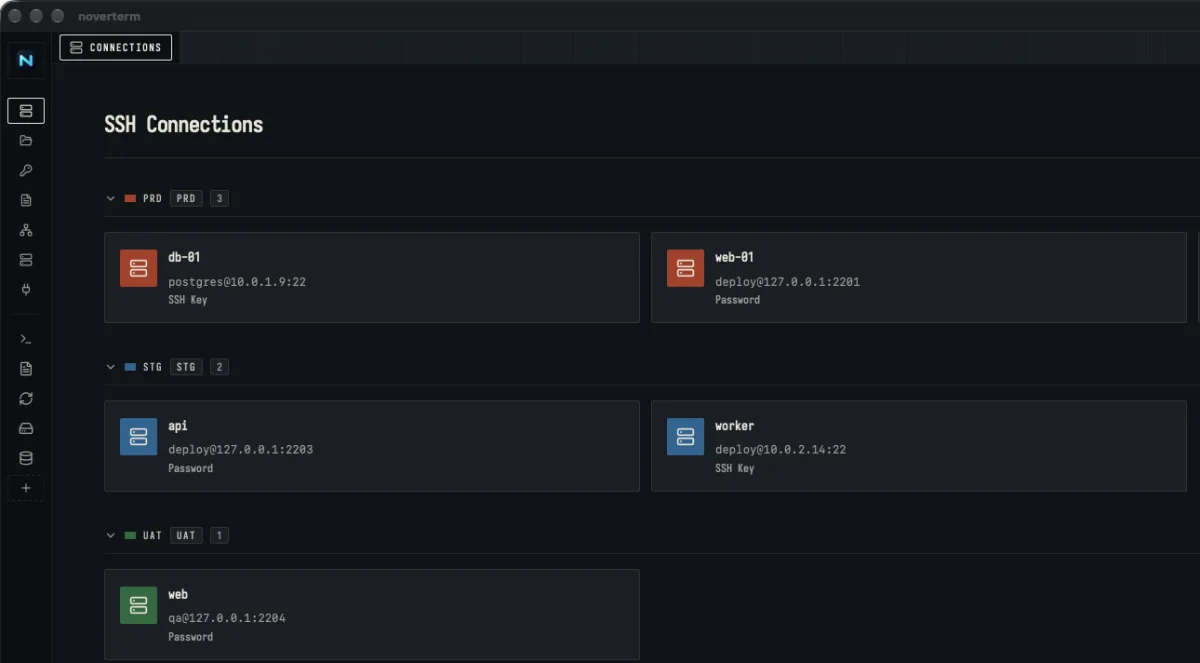
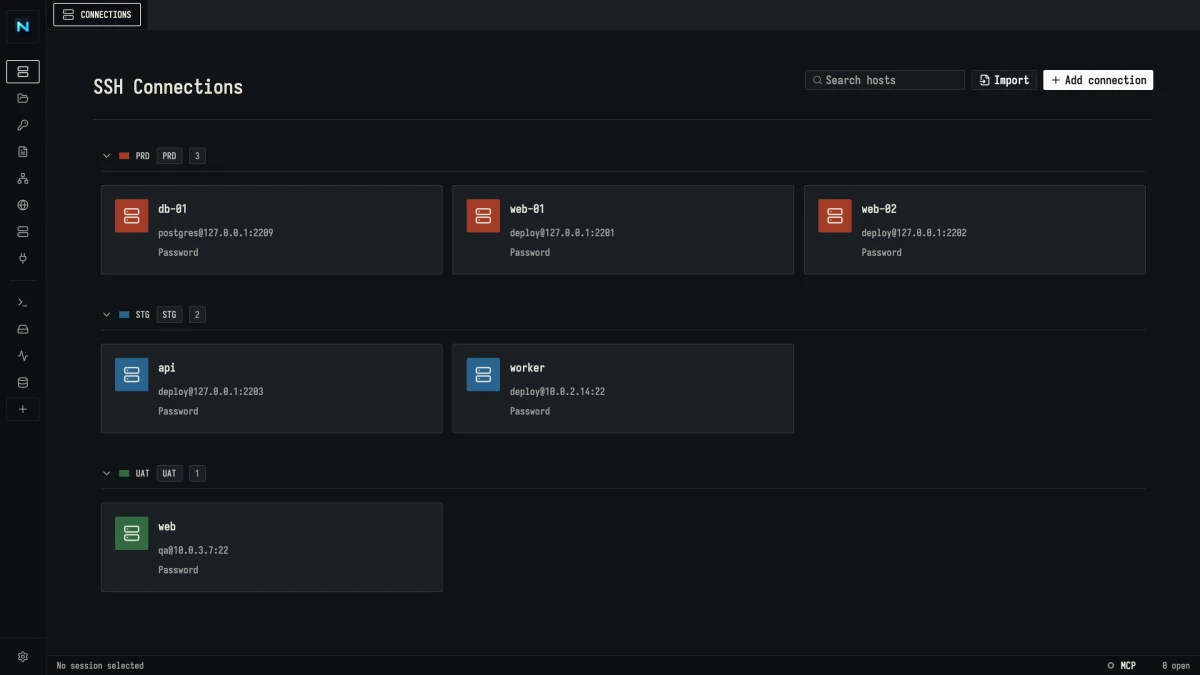
docs(site): add Links, describe the new MCP tools, refresh screenshots
- New section on Links: a local service on a public HTTPS URL through
  your own relay.
- MCP section mentions publishing through a Link and that it always asks.
- Every screenshot re-shot from the current app, plus a Links one.
- Fix stale claims: the MCP token lives in the local database, and the
  app draws with GPUI instead of running in a Tauri webview.

diff --git a/docs/index.html b/docs/index.html
@@ -6,7 +6,7 @@
     <title>Noverterm – Native SSH Client for macOS and Windows</title>
     <meta
       name="description"
-      content="Noverterm is a native SSH client for macOS and Windows built with Tauri 2 and Rust. SSH tabs, SFTP, port forwarding, jump hosts, SSH keys and snippets in one window, plus a local MCP server so AI agents can run approved commands and copy files on your hosts. Local-first, no account, MIT licensed."
+      content="Noverterm is a native SSH client for macOS and Windows written in Rust. SSH tabs, SFTP, port forwarding, jump hosts, SSH keys and snippets in one window, Links that give a local web service a public HTTPS URL through your own relay, and a local MCP server so AI agents can run approved commands and copy files on your hosts. Local-first, no account, MIT licensed."
     />
     <meta name="robots" content="index, follow" />
     <link rel="canonical" href="https://noverwork.github.io/noverterm/" />
@@ -15,12 +15,12 @@
     <meta property="og:title" content="Noverterm – Native SSH Client" />
     <meta
       property="og:description"
-      content="SSH tabs, SFTP, tunnels, keys and snippets in one native window. Tauri 2 and Rust, no Electron."
+      content="SSH tabs, SFTP, tunnels, Links, keys and snippets in one native window. Rust all the way down, no Electron."
     />
     <meta property="og:image" content="https://noverwork.github.io/noverterm/og-image.svg" />
     <meta name="twitter:card" content="summary_large_image" />
     <meta name="twitter:title" content="Noverterm – Native SSH Client" />
-    <meta name="twitter:description" content="A lightweight Tauri + Rust SSH client for macOS and Windows." />
+    <meta name="twitter:description" content="A lightweight native Rust SSH client for macOS and Windows." />
     <meta name="twitter:image" content="https://noverwork.github.io/noverterm/og-image.svg" />
     <link rel="icon" href="favicon.svg" type="image/svg+xml" />
     <link rel="preconnect" href="https://fonts.googleapis.com" />
@@ -512,6 +512,15 @@
       }
       .agent-copy {
         grid-column: 1 / 7;
+      }
+      .agent.link {
+        margin-top: 0;
+        background: var(--harbour);
+        color: var(--stencil);
+      }
+      .agent.link code {
+        font-family: var(--code);
+        font-size: 0.9em;
       }
       .agent h2 {
         font-size: var(--step-head);
@@ -1367,14 +1376,16 @@
             </div>
             <h1 id="title">SSH for you and your AI</h1>
             <p class="lede">
-              A native SSH client for macOS and Windows with tabs, SFTP, tunnels and keys. Its built-in MCP server
-              lets AI agents run commands and copy files on your hosts, each one approved by you.
+              A native SSH client for macOS and Windows with tabs, SFTP, tunnels and keys. Links put a local web
+              service on a public URL, and the built-in MCP server lets AI agents work your hosts, each step approved
+              by you.
             </p>
             <a class="btn" href="https://github.com/noverwork/noverterm/releases">Download for macOS or Windows</a>
           </div>
           <nav class="card-links" aria-label="Page">
             <a href="#window">Features</a>
             <a href="#mcp">MCP</a>
+            <a href="#link">Links</a>
             <a href="#route">How it connects</a>
             <a href="#faq">Questions</a>
             <a href="https://github.com/noverwork/noverterm">Source on GitHub</a>
@@ -1386,7 +1397,7 @@
             class="shot"
             src="assets/shots/hero.webp"
             width="1600"
-            height="811"
+            height="900"
             alt="Noverterm with five session tabs: PRD·DB-01 held, PRD·WEB-01 running htop, PRD·WEB-02, STG·API and a local terminal"
           />
         </div>
@@ -1398,14 +1409,15 @@
           <h2 id="mcp-h">Let an AI agent work your hosts</h2>
           <p class="agent-lede">
             Turn on the MCP server and Claude Code, Cursor, VS Code or Claude Desktop can run commands on your saved
-            hosts, read and write files, run your snippets, open port forwards and read your open terminal tabs. Nothing
-            runs until you allow it.
+            hosts, read and write files, run your snippets, open port forwards, publish a dev server through a Link and
+            read your open terminal tabs. Nothing runs until you allow it.
           </p>
           <ul class="agent-facts">
-            <li>Listens on 127.0.0.1 only, behind a token kept in the system keychain.</li>
+            <li>Listens on 127.0.0.1 only, behind a token kept in Noverterm's local database.</li>
             <li>Passwords and keys stay in Noverterm. The agent sees host names, never credentials.</li>
             <li>Hosts must pass their fingerprint check, and jump hosts work as they do in the terminal.</li>
             <li>Allow once, always allow a host, or deny. A request nobody answers is denied after two minutes.</li>
+            <li>Publishing a Link always asks, every time: there is no "always allow" for putting a service online.</li>
           </ul>
         </div>
 
@@ -1430,11 +1442,51 @@
           <img
             src="assets/shots/mcp.webp"
             width="1600"
-            height="492"
-            alt="Noverterm MCP page: server enabled on port 47322, URL and hidden token with copy and regenerate buttons, a ready-made claude mcp add command for Claude Code, Cursor, VS Code or Claude Desktop, and the four tools list_hosts, run_command, upload_file and download_file"
+            height="845"
+            alt="Noverterm MCP page: server on port 47322, URL and hidden token with copy and regenerate buttons, a ready-made claude mcp add command for Claude Code, Cursor, VS Code or Claude Desktop, and the start of the tool list: list_hosts, run_command, run_command_multi, upload_file, download_file, transfer_status, list_dir and read_file"
             loading="lazy"
           />
           <figcaption>One switch, then paste the command for your client. The token stays hidden until you reveal it.</figcaption>
+        </figure>
+      </section>
+
+      <!-- Links: a local service on a public URL -->
+      <section class="agent link" id="link" aria-labelledby="link-h">
+        <div class="agent-copy" data-rise>
+          <h2 id="link-h">Put a local service on a public URL</h2>
+          <p class="agent-lede">
+            A Link gives a dev server, a webhook receiver or a demo on your machine an HTTPS address like
+            <code>shop.link.example.com</code>, for as long as you leave it on.
+          </p>
+          <ul class="agent-facts">
+            <li>It goes through a relay you run on your own server: one Docker image, plus a domain and its wildcard.</li>
+            <li>Only keys you add to the relay can connect. Each Noverterm install shows its own Link key to copy.</li>
+            <li>HTTPS and WebSockets, names first come first served, and it reconnects by itself when the line drops.</li>
+            <li>Plain <code>ssh -R</code> works too, so a server without Noverterm can publish through the same relay.</li>
+          </ul>
+        </div>
+
+        <div class="approve" data-ui role="group" aria-labelledby="lk-h">
+          <div class="approve-head">
+            <span class="approve-mark" aria-hidden="true">↗</span>
+            <h3 id="lk-h">shop is online</h3>
+          </div>
+          <div class="approve-body">
+            <span class="approve-target">127.0.0.1:3000 on this machine</span>
+            <pre class="approve-cmd">https://shop.link.example.com</pre>
+          </div>
+          <pre class="approve-out">Anyone with the URL reaches your dev server. Stop the Link and it is gone.</pre>
+        </div>
+
+        <figure class="agent-shot">
+          <img
+            src="assets/shots/links.webp"
+            width="1440"
+            height="555"
+            alt="Noverterm Links page: relay domain link.example.com with this install's Link key and a copy button, and three Links, shop online at https://shop.link.example.com, docs and webhooks idle"
+            loading="lazy"
+          />
+          <figcaption>Set your relay once, add its key there, then start a Link with one click.</figcaption>
         </figure>
       </section>
 
@@ -1454,15 +1506,15 @@
           <div class="shape" aria-hidden="true"><div class="ribs"><i></i><i></i><i></i><i></i><i></i><i></i><i></i><i></i></div></div>
 
           <div class="panel on" id="p-tabs" role="tabpanel" aria-labelledby="t-tabs" data-fact="Hosts sit in groups, and each group paints its tabs: PRD in rust, STG in harbour blue. Cmd+1 to Cmd+9 jumps between open tabs.">
-            <img class="shot" src="assets/shots/connections.webp" width="1200" height="663" alt="Connections view with PRD, STG and UAT groups, each host marked in its group colour" loading="lazy" />
+            <img class="shot" src="assets/shots/connections.webp" width="1200" height="675" alt="Connections view with PRD, STG and UAT groups, each host marked in its group colour" loading="lazy" />
           </div>
 
           <div class="panel" id="p-sftp" role="tabpanel" aria-labelledby="t-sftp" hidden data-fact="Each pane is your machine or any saved host. Drag between them; folders copy recursively, with progress and conflict choices.">
-            <img class="shot" src="assets/shots/sftp.webp" width="1440" height="730" alt="SFTP browser with /tmp/demo on the left, the bastion host on the right, uploading release-2026.11.04.tar.gz at 50%" loading="lazy" />
+            <img class="shot" src="assets/shots/sftp.webp" width="1440" height="810" alt="SFTP browser with this machine's home folder on the left and web-01's home folder on the right" loading="lazy" />
           </div>
 
           <div class="panel" id="p-fwd" role="tabpanel" aria-labelledby="t-fwd" hidden data-fact="Save local tunnels as presets with several ports each, and bring a whole set up or down at once.">
-            <img class="shot" src="assets/shots/forwards.webp" width="716" height="410" alt="Port forward preset Grafana + Postgres with three local ports" loading="lazy" />
+            <img class="shot" src="assets/shots/forwards.webp" width="716" height="375" alt="Port forward preset Grafana + Postgres with three local ports" loading="lazy" />
           </div>
 
           <div class="panel" id="p-jump" role="tabpanel" aria-labelledby="t-jump" hidden data-fact="Like ssh -J, chained up to five hops. The terminal, SFTP and port forwarding all travel through the bastion; your keys stay on your machine.">
@@ -1487,7 +1539,7 @@
           </div>
 
           <div class="panel" id="p-keys" role="tabpanel" aria-labelledby="t-keys" hidden data-fact="Import the keys you already have and see each one's algorithm and fingerprint before you use it.">
-            <img class="shot" src="assets/shots/keys.webp" width="1440" height="224" alt="SSH keys view listing id_ed25519, deploy_rsa and bastion_ed25519 with fingerprints" loading="lazy" />
+            <img class="shot" src="assets/shots/keys.webp" width="1440" height="225" alt="SSH keys view listing id_ed25519, deploy_rsa and bastion_ed25519 with fingerprints" loading="lazy" />
           </div>
         </div>
 
@@ -1503,7 +1555,7 @@
         <div class="sw-band on" style="--c: var(--rust)">
           <div>
             <h3 id="s1">No Electron underneath</h3>
-            <p>Tauri 2 and Rust, running in the system webview instead of a bundled Chromium.</p>
+            <p>Rust from the window to the wire: the interface is drawn on the GPU with GPUI, no browser engine bundled or borrowed.</p>
           </div>
           <button class="toggle" role="switch" aria-checked="true" aria-labelledby="s1"></button>
         </div>
@@ -1517,7 +1569,7 @@
         <div class="sw-band" style="--c: var(--evergreen)">
           <div>
             <h3 id="s3">Nothing phones home</h3>
-            <p>No telemetry. Besides your SSH traffic, the only request is the update check against GitHub Releases.</p>
+            <p>No telemetry. Besides your SSH traffic and your own relay, the only request is the update check against GitHub Releases.</p>
           </div>
           <button class="toggle" role="switch" aria-checked="false" aria-labelledby="s3"></button>
         </div>
@@ -1537,7 +1589,7 @@
             class="strip"
             src="assets/shots/tabs.webp"
             width="1232"
-            height="40"
+            height="32"
             alt="Session tabs: PRD·DB-01 held, PRD·WEB-01 active, PRD·WEB-02, STG·API and a local terminal"
             loading="lazy"
           />
@@ -1585,7 +1637,7 @@
           <p class="clause">Now it opens as a painted tab.</p>
         </div>
         <div class="field">
-          <img class="ticket shot" src="assets/shots/held.webp" width="548" height="276" alt="Held session panel: PRD·DB-01 connection failed, with a Retry session button" loading="lazy" />
+          <img class="ticket shot" src="assets/shots/held.webp" width="548" height="249" alt="Held session panel: PRD·DB-01 connection failed, with Retry session and Close tab buttons" loading="lazy" />
           <p class="clause">If the line drops, it waits for you.</p>
         </div>
       </section>
@@ -1604,7 +1656,7 @@
           </details>
           <details name="faq" style="--i: 2; --c: var(--stencil); --t: var(--port)">
             <summary><span class="topic">Privacy</span><h3>Where do my hosts and keys live?</h3></summary>
-            <div class="a"><p>In a local SQLite database in the app data folder. There is no account, no telemetry and no cloud sync. The only network traffic besides your SSH connections is the update check against GitHub Releases.</p></div>
+            <div class="a"><p>In a local SQLite database in the app data folder. There is no account, no telemetry and no cloud sync. The only network traffic besides your SSH connections and your own relay is the update check against GitHub Releases.</p></div>
           </details>
           <details name="faq" style="--i: 3; --c: var(--graphite)">
             <summary><span class="topic">Bastions</span><h3>Can I reach private servers through a bastion?</h3></summary>
@@ -1612,7 +1664,7 @@
           </details>
           <details name="faq" style="--i: 4; --c: var(--stencil); --t: var(--port)">
             <summary><span class="topic">Weight</span><h3>Why is it so much lighter?</h3></summary>
-            <div class="a"><p>It runs in the system webview through Tauri 2, with SSH, SFTP and tunnels handled by Rust (Russh and Tokio), instead of shipping a whole Chromium per app.</p></div>
+            <div class="a"><p>There is no browser inside. The window is drawn on the GPU with GPUI, and SSH, SFTP and tunnels run in Rust (Russh and Tokio), instead of shipping a whole Chromium per app.</p></div>
           </details>
           <details name="faq" style="--i: 5; --c: var(--graphite)">
             <summary><span class="topic">Updates</span><h3>How do I get new versions?</h3></summary>
